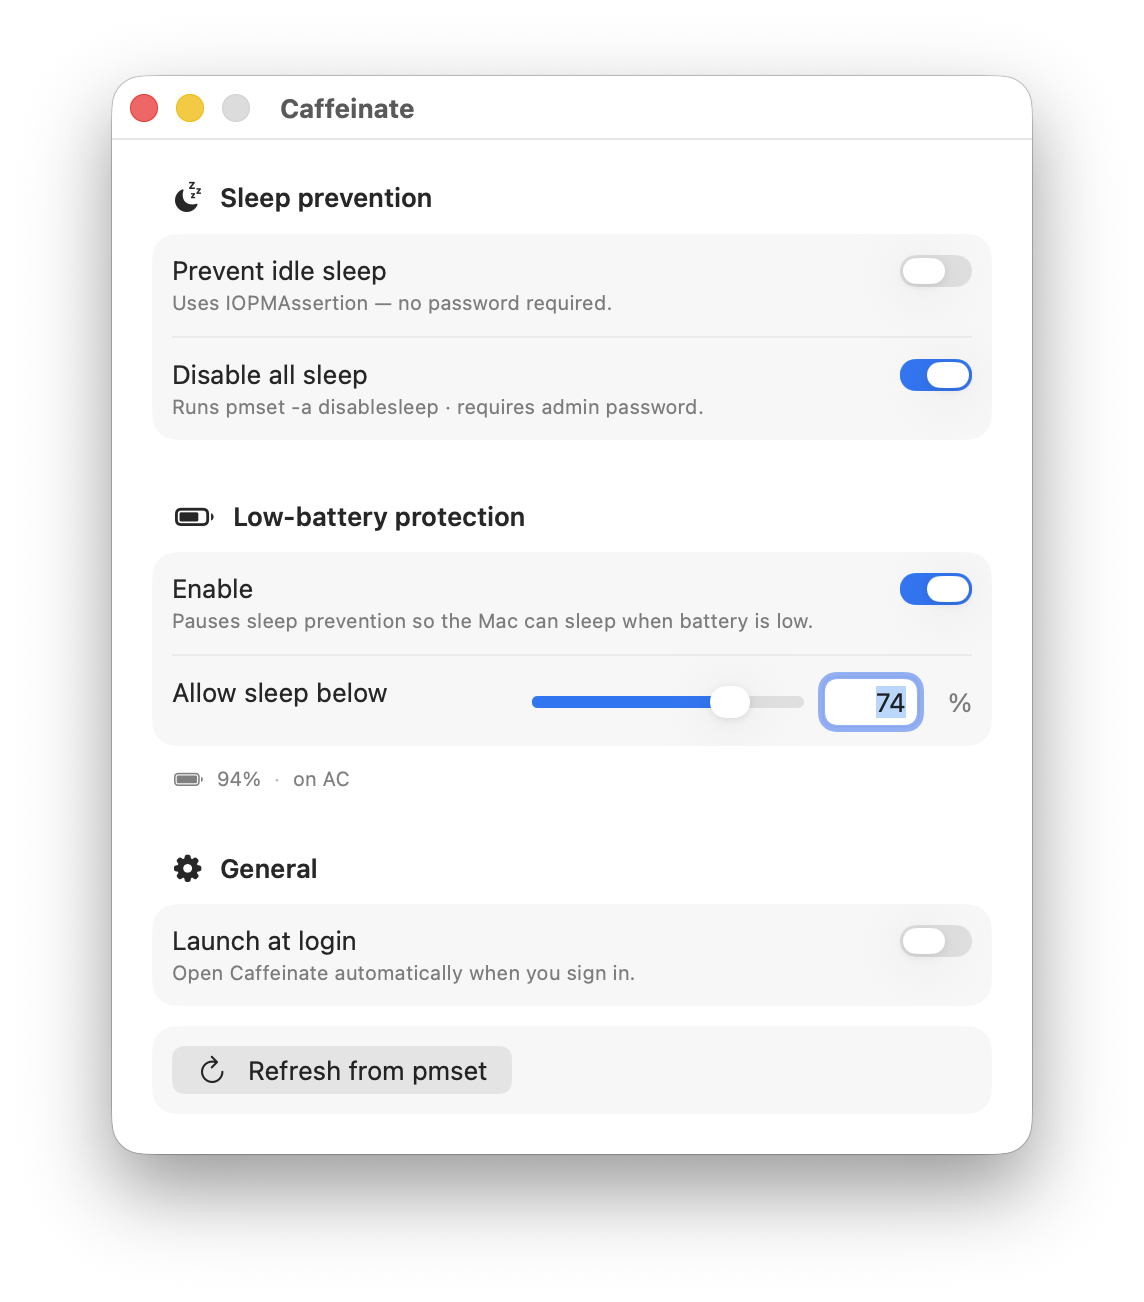
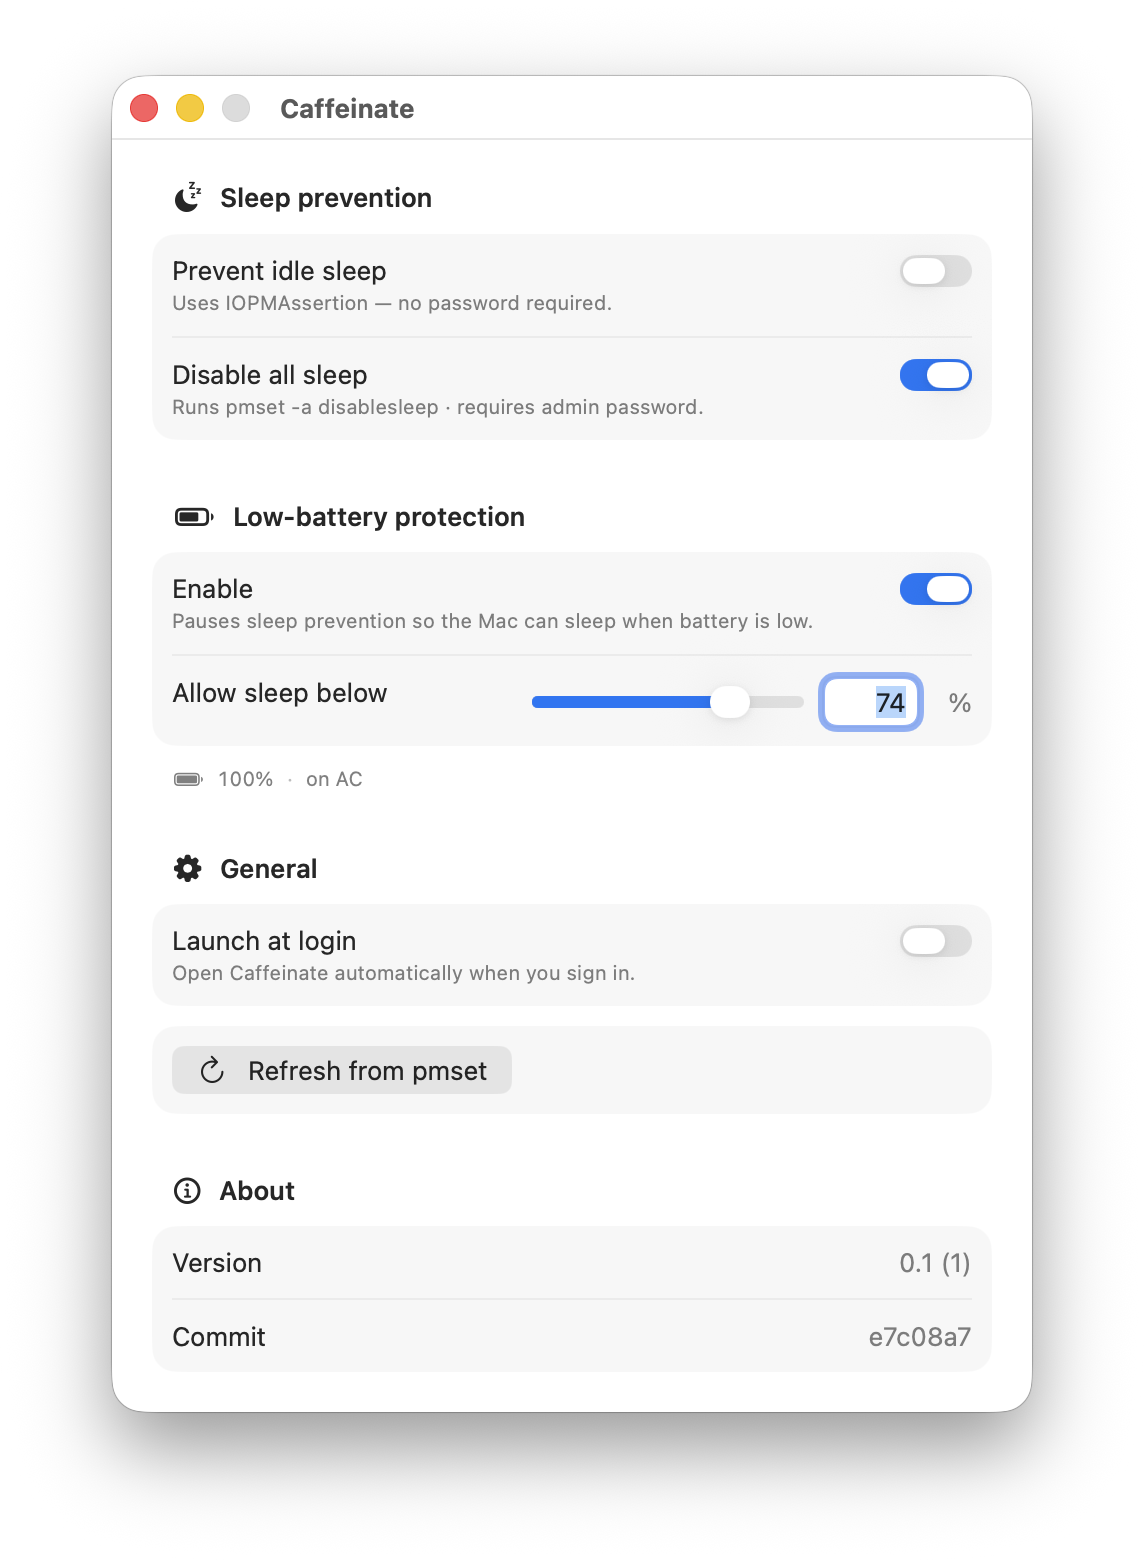
misc: update README

diff --git a/README.md b/README.md
@@ -19,6 +19,10 @@ macOS menu bar app to keep the Mac awake.
 - **Launch at login**: `SMAppService.mainApp`. Toggle syncs with System Settings on launch.
 - Native Swift.
 
+## Install
+
+Release builds are available in the [Releases](https://github.com/gen-xu/caffeinate/releases) page.
+
 ## Build
 
 In Xcode: open `caffeinate.xcodeproj` and run.
